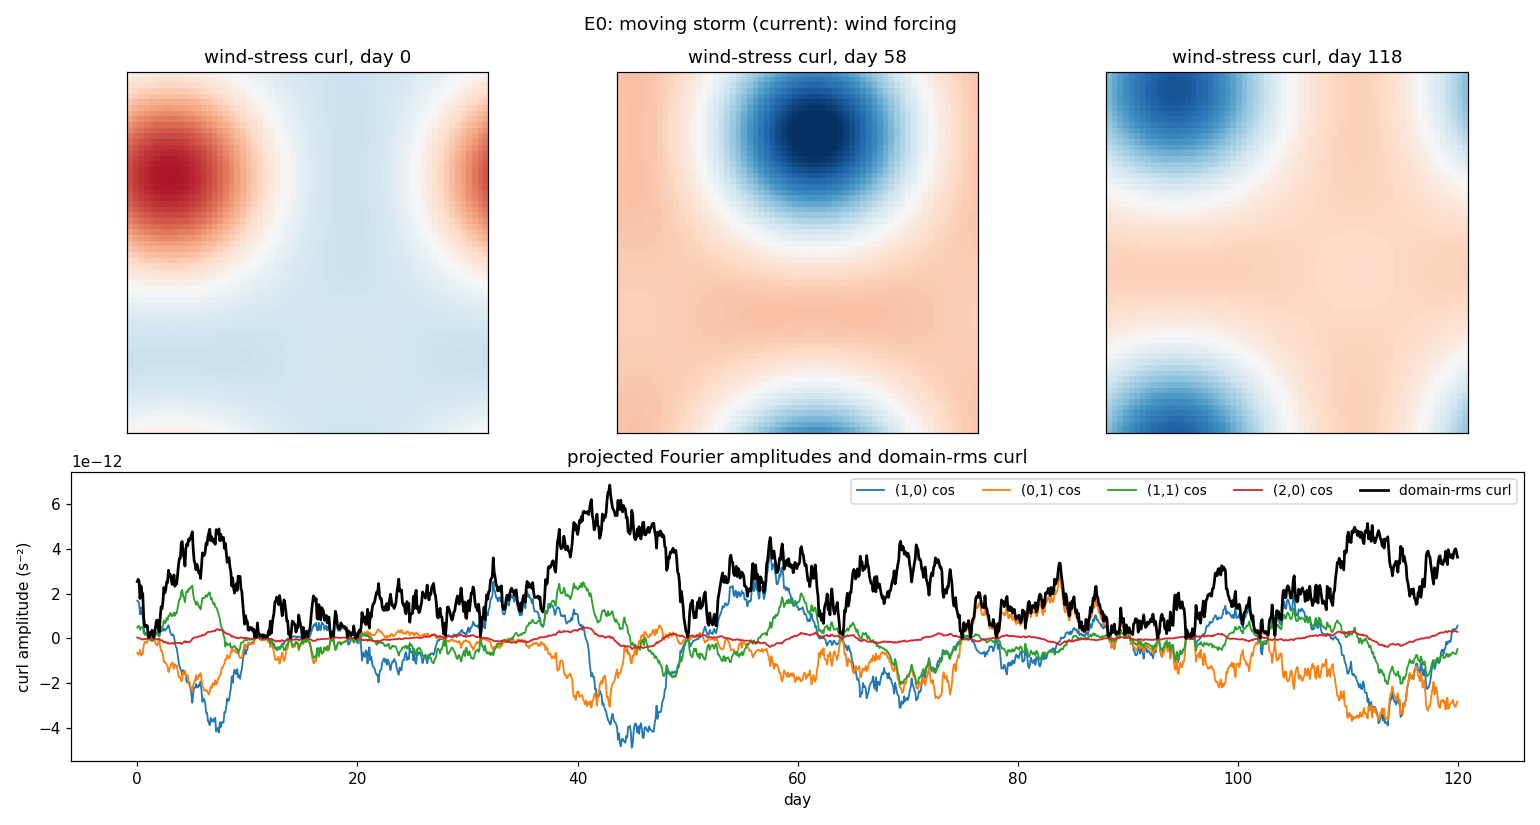
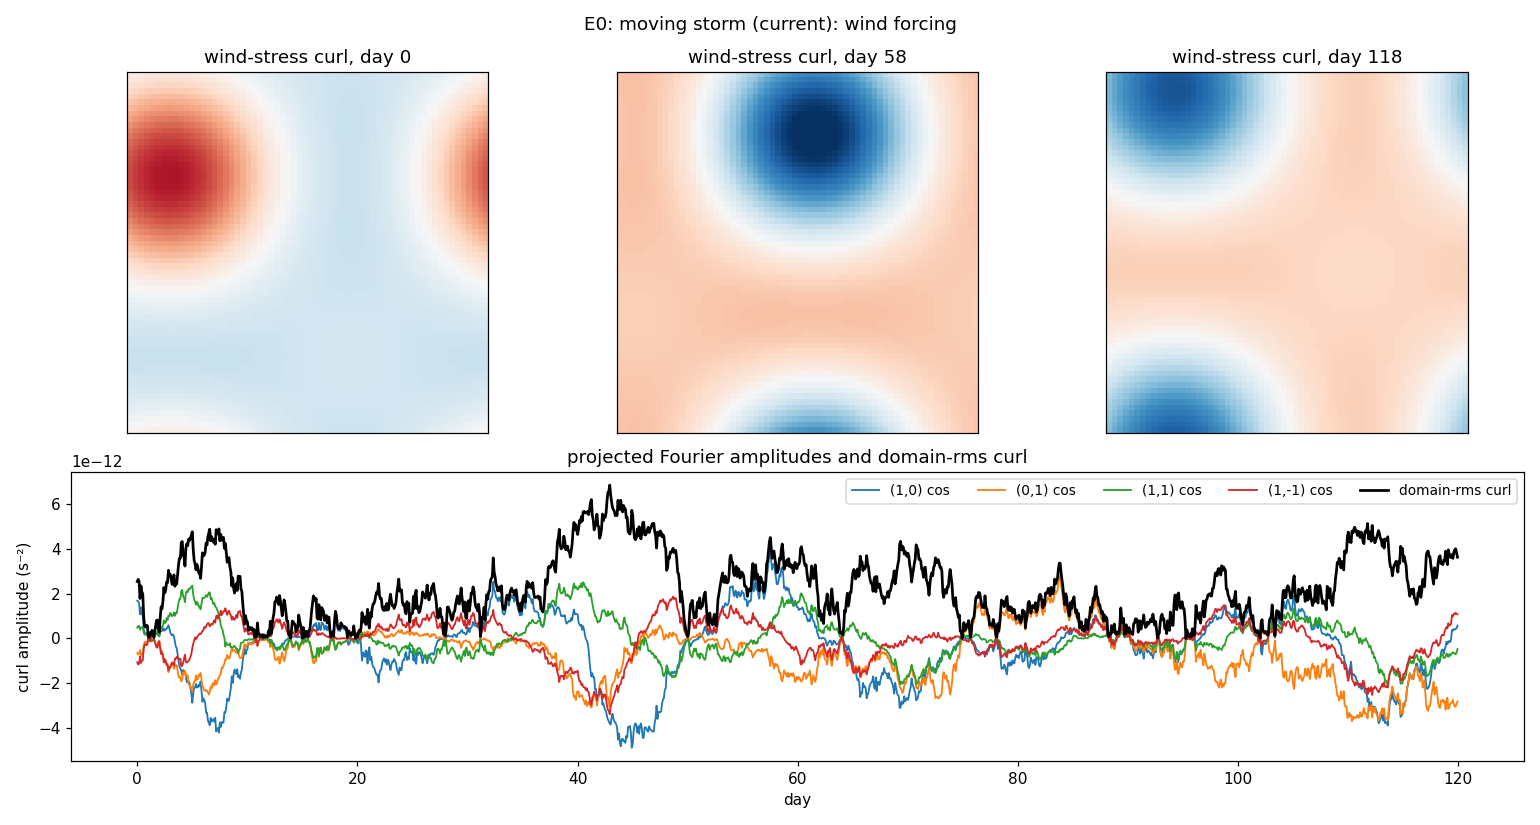
fix(qg): address code-review findings on the spectral wind basis and script
- FourierWindBasis.translate / ricker_amplitudes now follow the input's
  device (they used CPU wavevector tensors, so a CUDA basis failed).
- FourierWindBasis(dtype=None) no longer reads self.patterns before it
  exists.
- The simulation script labels forcing curves from the basis wavevectors
  (hardcoded column 8 raised IndexError for --kmax 1), passes a --mapping
  that defaults to the preset's first mapping, and builds the E1 label
  from --preset.
- generate_spectral_wind: mapping defaults to None, resolved per preset.

Regenerated outputs: the four forcing figures (their fourth curve is now
the basis's fourth wavevector) and one report row. The animations and
the other figures are byte-identical. Three regression tests added.

diff --git a/reports/qg/simulate_qg_spectral_wind.py b/reports/qg/simulate_qg_spectral_wind.py
@@ -36,7 +36,7 @@ CMAP = "RdBu_r"
 DRIVER_LABELS = {
     "ou": "E0: moving storm (current)",
     "spectral_ou": "E0b: spectral OU",
-    "gyrostat": "E1: gyrostat (l63ring4)",
+    "gyrostat": "E1: gyrostat",
     "gyrostat_surrogate": "E2: phase-randomized surrogate",
 }
 DRIVER_COLORS = {"ou": "#555555", "spectral_ou": "#1f77b4",
@@ -83,7 +83,7 @@ def _wind_state(driver: str, args, basis: FourierWindBasis, dyn_ou: QGDynamics,
     return generate_spectral_wind(
         basis, driver, n, args.dt, amp=args.wind_amp, sigma=args.wind_sigma,
         cx=args.wind_cx, cy=args.wind_cy, x0=x0, y0=y0, seed=args.wind_seed,
-        tau_days=args.wind_tau_days, preset=args.preset)
+        tau_days=args.wind_tau_days, preset=args.preset, mapping=args.mapping)
 
 
 def _simulate(driver: str, args, basis, basis_dev, state0, device) -> dict:
@@ -109,6 +109,7 @@ def _simulate(driver: str, args, basis, basis_dev, state0, device) -> dict:
         "curl": curl_all[::stride].numpy(), "rms_curl": curl_all.pow(2).mean((-2, -1)).sqrt().numpy(),
         "amps": amps, "ke": ke, "days_snap": np.arange(q.shape[0]) * args.sample_days,
         "days": np.arange(n) / args.steps_per_day, "elapsed_s": elapsed,
+        "wavevectors": basis.wavevectors,
     }
 
 
@@ -153,8 +154,8 @@ def _fig_forcing(run, scales, path):
         ax.set_xticks([])
         ax.set_yticks([])
     ax = fig.add_subplot(gs[1, :])
-    for k, lab in ((0, "(1,0) cos"), (2, "(0,1) cos"), (4, "(1,1) cos"), (8, "(2,0) cos")):
-        ax.plot(run["days"], run["amps"][:, k], lw=1.2, label=lab)
+    for i, (kx, ky) in enumerate(run["wavevectors"][:4]):
+        ax.plot(run["days"], run["amps"][:, 2 * i], lw=1.2, label=f"({kx},{ky}) cos")
     ax.plot(run["days"], run["rms_curl"], color="k", lw=1.8, label="domain-rms curl")
     ax.set_xlabel("day")
     ax.set_ylabel("curl amplitude (s⁻²)")
@@ -197,7 +198,8 @@ def _long_amplitude_stats(args, basis, drivers, years=40.0) -> dict:
         else:
             a = generate_spectral_wind(basis, d, n, dt, amp=args.wind_amp, sigma=args.wind_sigma,
                                        cx=0.0, cy=0.0, x0=0.0, y0=0.0, seed=args.wind_seed + 1,
-                                       tau_days=args.wind_tau_days, preset=args.preset).numpy()
+                                       tau_days=args.wind_tau_days, preset=args.preset,
+                                       mapping=args.mapping).numpy()
         z = a[:, 0] / a[:, 0].std()
         v = z - z.mean()
         spec = np.fft.rfft(v, 2 * n)
@@ -261,8 +263,9 @@ def _write_report(args, runs, stats, files, path):
         "starts after a 4-memory-time lead-in, since the OU amplitude is initialized at zero) |",
         f"| E0b | `spectral_ou` | {files['n_amp']} Fourier amplitudes (`|k| ≤ {args.kmax}`), independent OU, "
         "same per-mode variance and memory as the storm |",
-        f"| E1 | `gyrostat` | the same amplitudes driven by `{args.preset}` (four Lorenz-63 gyrostats on a "
-        "ring, energy-conserving coupling 0.5) |",
+        f"| E1 | `gyrostat` | the same amplitudes driven by the `{args.preset}` gyrostat preset "
+        f"({spec.n_modes} modes; `l63ring4` is four Lorenz-63 gyrostats on a ring, energy-conserving "
+        "coupling 0.5) |",
         "| E2 | `gyrostat_surrogate` | multivariate phase-randomized surrogate of E1's gyrostat series "
         "(same auto- and cross-spectra, Gaussian) |",
         "",
@@ -334,7 +337,11 @@ def main() -> None:
     p.add_argument("--wind-cx", type=float, default=0.5)
     p.add_argument("--wind-cy", type=float, default=0.03)
     p.add_argument("--kmax", type=int, default=2)
-    p.add_argument("--preset", default="l63ring4")
+    p.add_argument("--preset", default="l63ring4",
+                   help="gyrostat preset; its modes must match the basis amplitudes "
+                        "(l63ring4 has 12, which is |k| <= 2)")
+    p.add_argument("--mapping", default=None,
+                   help="mode-to-amplitude mapping; defaults to the preset's first mapping")
     p.add_argument("--drivers", default="ou,spectral_ou,gyrostat,gyrostat_surrogate")
     p.add_argument("--duration-ms", type=int, default=160)
     p.add_argument("--gif-scale", type=float, default=0.5)
@@ -343,6 +350,7 @@ def main() -> None:
     p.add_argument("--device", default="cuda" if torch.cuda.is_available() else "cpu")
     args = p.parse_args()
     args.steps_per_day = round(86400.0 / args.dt)
+    DRIVER_LABELS["gyrostat"] = f"E1: gyrostat ({args.preset})"
     drivers = args.drivers.split(",")
     device = torch.device(args.device)
     os.makedirs(args.out_dir, exist_ok=True)

diff --git a/models/qg_wind_modes.py b/models/qg_wind_modes.py
@@ -70,8 +70,8 @@ class FourierWindBasis:
 
     def to(self, dtype: torch.dtype | None = None,
            device: torch.device | str | None = None) -> "FourierWindBasis":
-        dtype = dtype or self.patterns.dtype
-        device = device if device is not None else self._patterns64.device
+        dtype = dtype or getattr(self, "patterns", self._patterns64).dtype
+        device = device if device is not None else getattr(self, "patterns", self._patterns64).device
         self.patterns = self._patterns64.to(dtype=dtype, device=device)
         cdtype = torch.complex64 if dtype == torch.float32 else torch.complex128
         self.spectral_patterns = torch.fft.rfft2(
@@ -96,10 +96,11 @@ class FourierWindBasis:
         return flat @ self.proj.T
 
     def translate(self, a: torch.Tensor, dx, dy) -> torch.Tensor:
-        dx = torch.as_tensor(dx, dtype=torch.float64)
-        dy = torch.as_tensor(dy, dtype=torch.float64)
-        phi = 2.0 * math.pi * (dx[..., None] * self._kx / self.L
-                               + dy[..., None] * self._ky / self.W)
+        dev = a.device
+        dx = torch.as_tensor(dx, dtype=torch.float64, device=dev)
+        dy = torch.as_tensor(dy, dtype=torch.float64, device=dev)
+        phi = 2.0 * math.pi * (dx[..., None] * self._kx.to(dev) / self.L
+                               + dy[..., None] * self._ky.to(dev) / self.W)
         pairs = a.to(torch.float64).reshape(*a.shape[:-1], -1, 2)
         c, s = pairs[..., 0], pairs[..., 1]
         cp, sp = torch.cos(phi), torch.sin(phi)
@@ -115,12 +116,15 @@ class FourierWindBasis:
 
     def ricker_amplitudes(self, A: torch.Tensor, xc: torch.Tensor, yc: torch.Tensor,
                           sigma: float) -> torch.Tensor:
-        k = self.wavenumbers
+        A = torch.as_tensor(A, dtype=torch.float64)
+        dev = A.device
+        k = self.wavenumbers.to(dev)
         ks2 = (k * sigma) ** 2
         radius = 2.0 * math.pi * sigma ** 2 * ks2 * torch.exp(-0.5 * ks2) / (self.L * self.W)
-        A = torch.as_tensor(A, dtype=torch.float64)
-        phase = 2.0 * math.pi * (torch.as_tensor(xc, dtype=torch.float64)[..., None] * self._kx / self.L
-                                 + torch.as_tensor(yc, dtype=torch.float64)[..., None] * self._ky / self.W)
+        xc = torch.as_tensor(xc, dtype=torch.float64, device=dev)
+        yc = torch.as_tensor(yc, dtype=torch.float64, device=dev)
+        phase = 2.0 * math.pi * (xc[..., None] * self._kx.to(dev) / self.L
+                                 + yc[..., None] * self._ky.to(dev) / self.W)
         c = A[..., None] * radius * torch.cos(phase)
         s = A[..., None] * radius * torch.sin(phase)
         return torch.stack([c, s], dim=-1).reshape(*A.shape, self.n_amp)
@@ -137,11 +141,12 @@ def _unit_ou(n_steps: int, n_channels: int, dt: float, tau: float, seed: int) ->
     return z
 
 
-def _gyrostat_series(preset: str, mapping: str, n_steps: int, dt_days: float,
+def _gyrostat_series(preset: str, mapping: str | None, n_steps: int, dt_days: float,
                      time_unit_days: float, seed: int, burnin_units: float,
                      surrogate: bool) -> np.ndarray:
     spec = get_preset(preset)
     system = GyrostatSystem(spec)
+    mapping = mapping or next(iter(MODE_MAPPINGS.get(preset, {})), None)
     order = MODE_MAPPINGS.get(preset, {}).get(mapping)
     if order is None:
         raise ValueError(f"no mapping {mapping!r} for preset {preset!r}")
@@ -165,7 +170,7 @@ def generate_spectral_wind(basis: FourierWindBasis, driver: str, n_steps: int,
                            dt_seconds: float, amp: float, sigma: float,
                            cx: float, cy: float, x0: float, y0: float, seed: int,
                            tau_days: float = 15.0, preset: str = "l63ring4",
-                           mapping: str = "xz_pairs",
+                           mapping: str | None = None,
                            time_unit_days: float | None = None,
                            burnin_units: float = 50.0) -> torch.Tensor:
     if driver not in SPECTRAL_DRIVERS:

diff --git a/tests/test_qg_wind_modes.py b/tests/test_qg_wind_modes.py
@@ -136,3 +136,26 @@ def test_spectral_forcing_drives_qg_through_tendency(basis):
     q1 = torch.fft.irfft2(tend[0, 0], s=(64, 64))
     torch.testing.assert_close(q1, basis.curl_field(a[0]), rtol=1e-8, atol=1e-20)
     assert math.isclose(float(tend[0, 1].abs().max()), 0.0, abs_tol=1e-30)
+
+
+def test_constructor_accepts_dtype_none():
+    b = FourierWindBasis(nx=16, L=L, kmax=1, dtype=None)
+    assert b.patterns.dtype == torch.float64
+
+
+def test_default_mapping_resolves_per_preset(basis):
+    a = generate_spectral_wind(basis, "gyrostat", 4, 7200.0, amp=1e-11, sigma=SIGMA,
+                               cx=0.0, cy=0.0, x0=0.0, y0=0.0, seed=0, burnin_units=1.0,
+                               mapping=None)
+    assert a.shape == (4, basis.n_amp)
+
+
+@pytest.mark.skipif(not torch.cuda.is_available(), reason="needs CUDA")
+def test_translate_and_ricker_follow_input_device():
+    b = FourierWindBasis(nx=32, L=L, kmax=2, dtype=torch.float32, device="cuda")
+    a = torch.randn(3, b.n_amp, device="cuda")
+    out = b.translate(a, torch.tensor([1e4, 2e4, 3e4], device="cuda"), 0.0)
+    assert out.device.type == "cuda"
+    amps = b.ricker_amplitudes(torch.ones(2, device="cuda", dtype=torch.float64),
+                               torch.zeros(2, device="cuda"), torch.zeros(2, device="cuda"), SIGMA)
+    assert amps.device.type == "cuda"

diff --git a/reports/qg/outputs/qg_spectral_wind_report.md b/reports/qg/outputs/qg_spectral_wind_report.md
@@ -8,7 +8,7 @@ benchmark parameters, nx=64), then run 120 days forced by:
 |---|---|---|
 | E0 | `ou` | the current moving Mexican-hat storm (OU amplitude, 15-day memory; the wind series starts after a 4-memory-time lead-in, since the OU amplitude is initialized at zero) |
 | E0b | `spectral_ou` | 12 Fourier amplitudes (`|k| ≤ 2`), independent OU, same per-mode variance and memory as the storm |
-| E1 | `gyrostat` | the same amplitudes driven by `l63ring4` (four Lorenz-63 gyrostats on a ring, energy-conserving coupling 0.5) |
+| E1 | `gyrostat` | the same amplitudes driven by the `l63ring4` gyrostat preset (12 modes; `l63ring4` is four Lorenz-63 gyrostats on a ring, energy-conserving coupling 0.5) |
 | E2 | `gyrostat_surrogate` | multivariate phase-randomized surrogate of E1's gyrostat series (same auto- and cross-spectra, Gaussian) |
 
 All spectral drivers share the storm's spatial spectrum (variance per mode, analytic from the
@@ -36,8 +36,8 @@ Amplitude statistics from 40-year amplitude-only series (no ocean):
 
 | run | mean KE, last half (m² s⁻²) | max KE (m² s⁻²) | rms curl (s⁻²) | GPU time (s) |
 |---|---|---|---|---|
-| E0: moving storm (current) | 5.899e-03 | 8.669e-03 | 2.21e-12 | 18 |
-| E0b: spectral OU | 5.471e-03 | 1.447e-02 | 2.91e-12 | 6 |
+| E0: moving storm (current) | 5.899e-03 | 8.669e-03 | 2.21e-12 | 16 |
+| E0b: spectral OU | 5.471e-03 | 1.447e-02 | 2.91e-12 | 5 |
 | E1: gyrostat (l63ring4) | 5.830e-03 | 7.522e-03 | 3.04e-12 | 5 |
 | E2: phase-randomized surrogate | 4.994e-03 | 7.224e-03 | 3.38e-12 | 5 |
 
